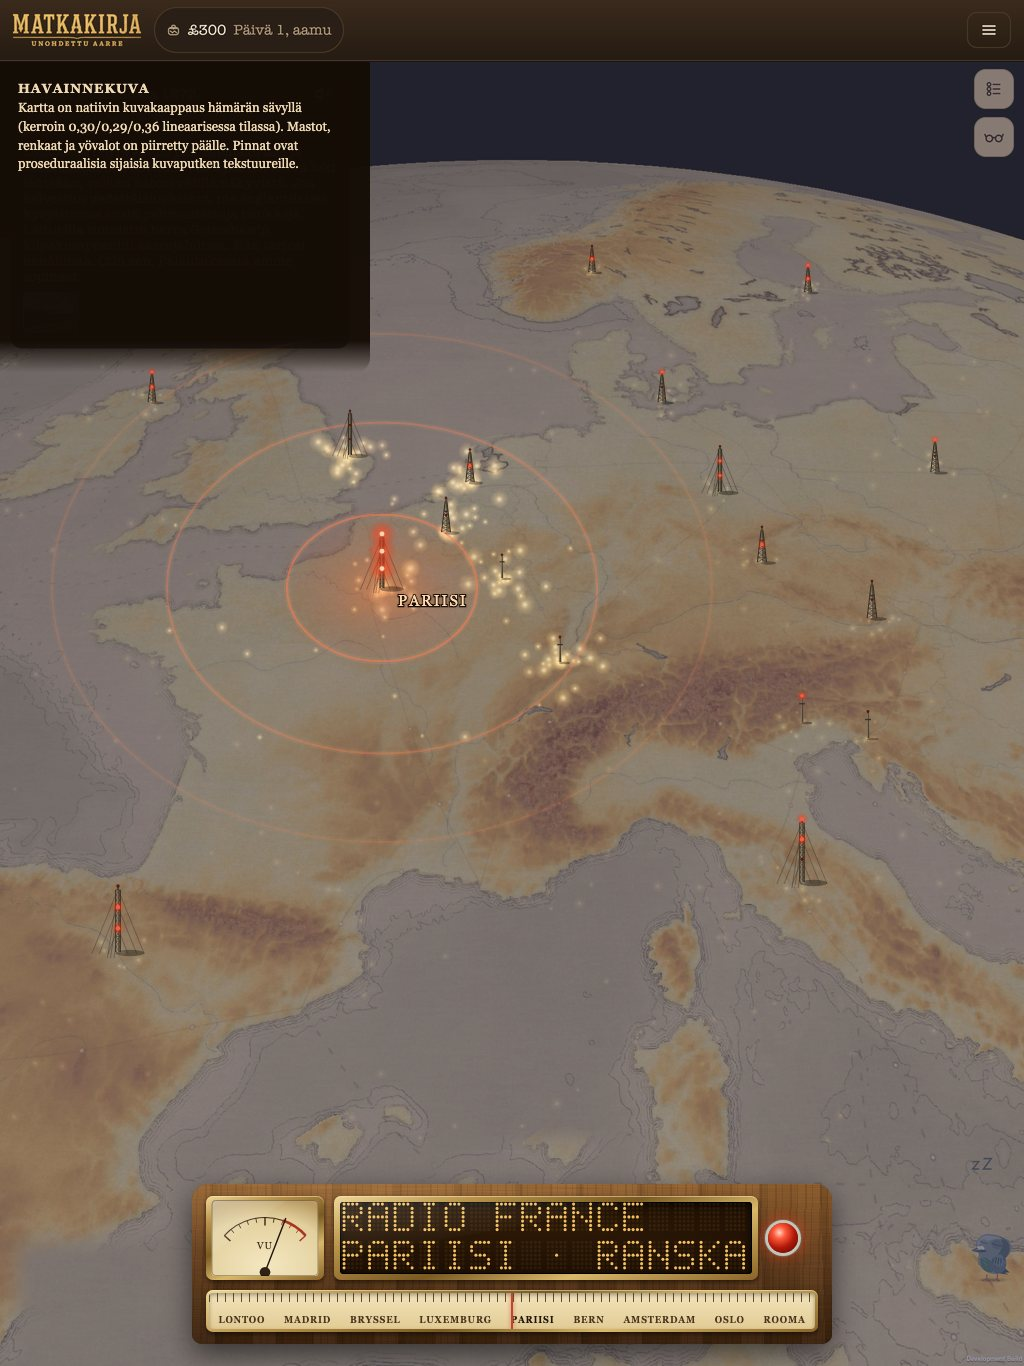
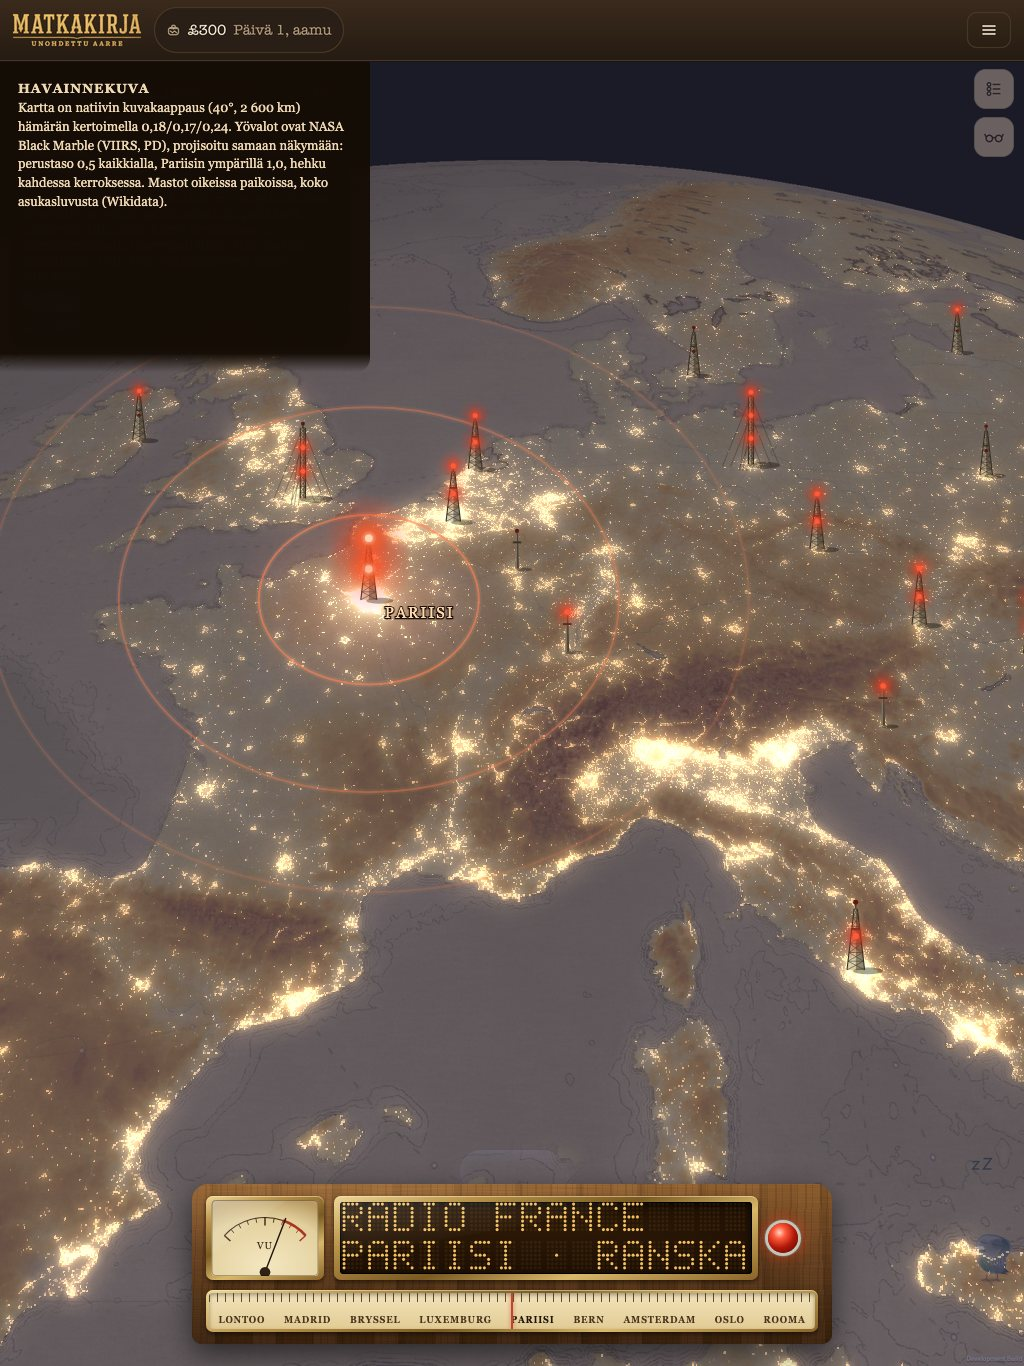
Radiouudistus: omistajan palaute havainnekuvasta (tummempi hämärä 0,18/0,17/0,24, oikea Black Marble perustasolla 0,5, voimakkaampi hehku) ja mastot asukasluvusta

diff --git a/docs/raportit/kaappaukset/radiouudistus-20260924/lahde/mastot.js b/docs/raportit/kaappaukset/radiouudistus-20260924/lahde/mastot.js
@@ -48,7 +48,7 @@ export function masto(x, y, koko, { mittakaava = 1, valot = [], valittu = false,
     const vy = y - h * t, palaa = valot[i] ?? true;
     const r = (valittu ? 2.8 : 2.1) * Math.max(0.7, mittakaava);
     if (palaa) {
-      s += `<circle cx="${x}" cy="${vy}" r="${r * (valittu ? 6 : 3.4)}" fill="url(#hehku${valittu ? 'V' : ''})"/>`;
+      s += `<circle cx="${x}" cy="${vy}" r="${r * (valittu ? 12 : 6.8)}" fill="url(#hehku${valittu ? 'V' : ''})"/>`;
       s += `<circle cx="${x}" cy="${vy}" r="${r}" fill="${valittu ? '#ffd2b0' : '#ff5a3a'}"/>`;
     } else {
       s += `<circle cx="${x}" cy="${vy}" r="${r * 0.8}" fill="#5a1a10"/>`;
@@ -58,8 +58,8 @@ export function masto(x, y, koko, { mittakaava = 1, valot = [], valittu = false,
 }
 
 export const MAARITTEET = `
-  <radialGradient id="hehku"><stop offset="0" stop-color="#ff4a2a" stop-opacity=".85"/><stop offset=".35" stop-color="#ff3a1a" stop-opacity=".35"/><stop offset="1" stop-color="#ff2a0a" stop-opacity="0"/></radialGradient>
-  <radialGradient id="hehkuV"><stop offset="0" stop-color="#ffb08a" stop-opacity="1"/><stop offset=".25" stop-color="#ff4a22" stop-opacity=".6"/><stop offset="1" stop-color="#ff2a0a" stop-opacity="0"/></radialGradient>
-  <radialGradient id="maavalo"><stop offset="0" stop-color="#ff8a4a" stop-opacity=".55"/><stop offset=".45" stop-color="#e0602a" stop-opacity=".22"/><stop offset="1" stop-color="#c04010" stop-opacity="0"/></radialGradient>
+  <radialGradient id="hehku"><stop offset="0" stop-color="#ff5a3a" stop-opacity="1"/><stop offset=".22" stop-color="#ff3a1a" stop-opacity=".55"/><stop offset=".55" stop-color="#ff2a0a" stop-opacity=".16"/><stop offset="1" stop-color="#ff2a0a" stop-opacity="0"/></radialGradient>
+  <radialGradient id="hehkuV"><stop offset="0" stop-color="#ffd0b0" stop-opacity="1"/><stop offset=".18" stop-color="#ff5a2a" stop-opacity=".8"/><stop offset=".5" stop-color="#ff3a12" stop-opacity=".25"/><stop offset="1" stop-color="#ff2a0a" stop-opacity="0"/></radialGradient>
+  <radialGradient id="maavalo"><stop offset="0" stop-color="#ff9a5a" stop-opacity=".7"/><stop offset=".45" stop-color="#e0602a" stop-opacity=".28"/><stop offset="1" stop-color="#c04010" stop-opacity="0"/></radialGradient>
   <radialGradient id="kaupunkivalo"><stop offset="0" stop-color="#ffe1a0" stop-opacity=".95"/><stop offset=".4" stop-color="#ffc060" stop-opacity=".35"/><stop offset="1" stop-color="#ffa030" stop-opacity="0"/></radialGradient>
 `;

diff --git a/docs/raportit/kaappaukset/radiouudistus-20260924/lahde/tee_tausta.py b/docs/raportit/kaappaukset/radiouudistus-20260924/lahde/tee_tausta.py
@@ -1,0 +1,65 @@
+# Hämärä (0,18/0,17/0,24) + Black Marble -yövalot projisoituna kallistettuun näkymään + bloom; mastojen paikat.
+import json, math, collections, sys
+from PIL import Image, ImageFilter, ImageChops
+sys.path.insert(0, 'bm')
+from proj import Kamera, v, dot
+k = Kamera(47, 6, 2600000, 40)
+W, H = 1024, 1366
+paiva = Image.open('kuvat/kall-paiva.png').convert('RGB')
+from PIL import ImageDraw
+def paikka(im, lahde, kohde, koko, sade=16):
+    w, h = koko; pala = im.crop((lahde[0], lahde[1], lahde[0]+w, lahde[1]+h))
+    m = Image.new('L', koko, 0); ImageDraw.Draw(m).rectangle((sade, sade, w-sade, h-sade), fill=255); m = m.filter(ImageFilter.GaussianBlur(sade/2))
+    im.paste(pala, kohde, m)
+paikka(paiva, (200, 1135), (440, 1135), (150, 75))      # Liiku
+paikka(paiva, (640, 1240), (10, 1240), (300, 80))       # maan nimi
+def lut(m, a): return [int(max(0, min(1, ((i/255)**2.2*m+a)**(1/2.2)))*255+.5) for i in range(256)]
+hamara = paiva.point(lut(0.18, 0.006)+lut(0.17, 0.006)+lut(0.24, 0.016))
+hamara.paste(paiva.crop((0, 0, W, 62)), (0, 0))
+bm = Image.open('bm/VIIRS_Black_Marble.png').convert('RGB'); BW, BH = bm.size; bp = bm.load()
+LAT1, LAT0, LON0, LON1 = 78, 20, -35, 50
+VALITTU = (48.86, 2.35); vv = v(*VALITTU)
+def smooth(e0, e1, x):
+    t = max(0, min(1, (x-e0)/(e1-e0))); return t*t*(3-2*t)
+valo = Image.new('RGB', (W, H)); vp = valo.load()
+PERUS = 0.5
+for py in range(62, H):
+    for px in range(W):
+        ll = k.maa(px+0.5, py+0.5)
+        if ll is None: continue
+        lat, lon = ll
+        if not (LAT0 <= lat < LAT1 and LON0 <= lon < LON1): continue
+        r, g, b = bp[int((lon-LON0)/(LON1-LON0)*BW), int((LAT1-lat)/(LAT1-LAT0)*BH)]
+        # Vain valot: lämmin ja kirkas (kuunvalaistu maa on sinertävää, lumi harmaata).
+        w = max(0, min(1, (r-48)/170)) * max(0, min(1, (r-b+10)/40))
+        if w <= 0: continue
+        dkm = math.acos(max(-1, min(1, dot(v(lat, lon), vv))))*6371
+        m = PERUS + (1-PERUS)*smooth(230, 60, dkm)
+        s = w*m*0.85
+        vp[px, py] = (int(255*min(1, s*1.05)), int(255*min(1, s*0.82)), int(255*min(1, s*0.52)))
+# Bloom: ydin + kaksi pehmeää halokerrosta (säde ~2× edellinen kuva)
+halo1 = valo.filter(ImageFilter.GaussianBlur(4)).point(lambda x: min(255, int(x*1.4)))
+halo2 = valo.filter(ImageFilter.GaussianBlur(14)).point(lambda x: min(255, int(x*1.9)))
+tulos = ImageChops.add(ImageChops.add(ImageChops.add(hamara, halo2), halo1), valo)
+# Kortin alue (pelin nimikortti) peitetään selitelaatikolla HTML:ssä.
+tulos.save('kuvat/kall-hamara2.png'); valo.save('kuvat/valot.png')
+# Mastot: radiokaupunki per maa (aloitus/tärkein), koko asukasluvusta.
+K = json.load(open('/Users/Shared/Claude/sisalto-koe/v49/kokoelmat/kaupungit.json'))['alkiot']
+R = json.load(open('/Users/Shared/Claude/sisalto-koe/v49/kokoelmat/radiot.json'))['alkiot']
+per = collections.defaultdict(list)
+for c in K: per[c['maa']].append(c)
+out = []
+for m in sorted({r['iso3'] for r in R}):
+    if m not in per: continue
+    c = max(per[m], key=lambda c: (c.get('aloitus', False), c['tarkeys'], c.get('asukkaat') or 0))
+    if m == 'FRA': c = next(x for x in per[m] if x['id'] == 'pariisi')
+    a = c.get('asukkaat'); alue = c.get('asukkaatAlue')
+    koko = 'pieni' if a is None or alue else 'iso' if a >= 3e6 else 'keski' if a >= 5e5 else 'pieni'
+    if dot(v(c['lat'], c['lon']), k.f) > -0.05: continue  # pallon takana
+    x, y = k.ruutu(c['lat'], c['lon'])
+    if not (-20 < x < W+20 and 330 < y < H-150): continue
+    p = [q*6371000 for q in v(c['lat'], c['lon'])]
+    d = math.sqrt(sum((a1-b1)**2 for a1, b1 in zip(p, k.silma)))
+    out.append({'nimi': c['nimi'], 'x': round(x, 1), 'y': round(y, 1), 'koko': koko, 'mk': round(2600000*1.35/d, 3), 'asukkaat': a})
+json.dump(out, open('kuvat/mastot.json', 'w'), ensure_ascii=False, indent=0)
+print(len(out), [(o['nimi'], o['koko'], o['mk']) for o in out])

diff --git a/docs/raportit/kaappaukset/radiouudistus-20260924/lahde/proj.py b/docs/raportit/kaappaukset/radiouudistus-20260924/lahde/proj.py
@@ -1,0 +1,30 @@
+import math
+R=6371000.0
+def v(lat,lon):
+    la,lo=math.radians(lat),math.radians(lon)
+    return (math.cos(la)*math.cos(lo),math.cos(la)*math.sin(lo),math.sin(la))
+def add(a,b,s=1): return tuple(x+s*y for x,y in zip(a,b))
+def mul(a,s): return tuple(x*s for x in a)
+def dot(a,b): return sum(x*y for x,y in zip(a,b))
+def cross(a,b): return (a[1]*b[2]-a[2]*b[1],a[2]*b[0]-a[0]*b[2],a[0]*b[1]-a[1]*b[0])
+def nrm(a): n=math.sqrt(dot(a,a)); return mul(a,1/n)
+class Kamera:
+    def __init__(s,lat,lon,korkeus,kall,suunt=0,fov=50,W=1024,H=1366):
+        ylos=v(lat,lon); kohde=mul(ylos,R)
+        pohj=nrm(add((0,0,1),ylos,-dot((0,0,1),ylos))); ita=nrm(cross(pohj,ylos))
+        b=math.radians(suunt); eteen=add(mul(pohj,math.cos(b)),mul(ita,math.sin(b)))
+        k=math.radians(kall); suunta=add(mul(ylos,math.cos(k)),mul(eteen,-math.sin(k)))
+        s.silma=add(kohde,mul(suunta,korkeus)); s.f=mul(suunta,-1)
+        s.up=nrm(add(mul(eteen,math.cos(k)),mul(ylos,math.sin(k))))
+        s.right=nrm(cross(s.f,s.up)); s.t=math.tan(math.radians(fov)/2); s.W,s.H=W,H; s.asp=W/H
+    def ruutu(s,lat,lon):
+        p=mul(v(lat,lon),R); d=add(p,s.silma,-1); z=dot(d,s.f)
+        x=dot(d,s.right)/z/(s.t*s.asp); y=dot(d,s.up)/z/s.t
+        return ((x+1)/2*s.W,(1-y)/2*s.H)
+    def maa(s,px,py):
+        x=(2*px/s.W-1)*s.t*s.asp; y=(1-2*py/s.H)*s.t
+        d=nrm(add(add(s.f,mul(s.right,x)),mul(s.up,y)))
+        b=dot(s.silma,d); c=dot(s.silma,s.silma)-R*R; disc=b*b-c
+        if disc<0: return None
+        t=-b-math.sqrt(disc); p=add(s.silma,mul(d,t))
+        return (math.degrees(math.asin(p[2]/R)),math.degrees(math.atan2(p[1],p[0])))

diff --git a/docs/raportit/linssi-radiouudistus-suunnitelma-20260924.md b/docs/raportit/linssi-radiouudistus-suunnitelma-20260924.md
@@ -7,7 +7,10 @@ suunnitelma koskee vain natiivia, web pysyy ennallaan.*
 
 Kuvat ovat kansiossa `kaappaukset/radiouudistus-20260924/` (lähdekoodi `lahde/`). Ne ovat havainnekuvia.
 Kartta on natiivin oma kuvakaappaus isosta iPadista (40° kallistus, 47° N 6° E, 2 600 km), ja sen päälle on
-laskettu hämärä. Mastot, renkaat, yövalot ja paneeli on piirretty päälle. Paneelin puu, messinki ja lasi ovat
+laskettu hämärä. Yövalot ovat oikeaa NASA Black Marble -aineistoa (GIBS VIIRS_Black_Marble), joka on projisoitu
+samaan näkymään pelin kameramallilla (`lahde/proj.py`). Mastot ovat oikeissa paikoissa, ja niiden koko tulee
+asukasluvusta (skeema 1.38). Pääkuva päivitettiin omistajan palautteen mukaan 24.9. klo 20.1x: kartta on
+tummempi, yövalot kattavat kaikki kaupungit ja tiet, ja hehku on voimakkaampi. Paneelin puu, messinki ja lasi ovat
 proseduraalisia sijaisia, kunnes kuvaputki toimittaa tekstuurit (tilaus d5928ae06).
 
 ![Pääkuva: iPad, hämärä kartta, Pariisin masto valittuna](kaappaukset/radiouudistus-20260924/1-paakuva-ipad.jpg)
@@ -63,7 +66,7 @@ Hämärä ei ole yö. Pergamentti tummuu ja viilenee, ja rannat, rajat, nimet ja
 Tileset-varjostimessa tehdään yksi kerto- ja lisäys lineaarisessa tilassa:
 
 ```
-hämärä = pohja × (0,30, 0,29, 0,36) + (0,010, 0,010, 0,022)
+hämärä = pohja × (0,18, 0,17, 0,24) + (0,006, 0,006, 0,016)     (omistaja 24.9. klo 20.0x: tummempi)
 lopputulos = lerp(pohja, hämärä, h),  h = 0 → 1 linssin avauksessa (1,5 s, Pehmeä)
 ```
 
@@ -75,12 +78,17 @@ lähtee pois (löydös 43, alla), joten kaikki maat näkyvät samassa hämäräs
 satelliittiputkella, ja Natiiviseppä lisää sen hämärään emissiivisenä:
 
 ```
-valo = BlackMarble × (0,25 + 0,75 × paikallinen)
+w     = saturate((R − 48/255) / (170/255)) × saturate((R − B + 10/255) / (40/255))   (vain lämmin valo,
+        ei kuunvalaistua maata eikä lunta; Karttaseppä voi leipoa tämän suoraan polttoon)
+valo  = w × 0,85 × (0,5 + 0,5 × paikallinen) × (1,05, 0,82, 0,52)                   (natriumin sävy)
 paikallinen = smoothstep(230 km, 60 km, etäisyys valittuun mastoon) × syttyminen (0 → 1, 1,2 s Pehmeä)
+hehku = valo + blur(valo, 4 pt) × 1,4 + blur(valo, 14 pt) × 1,9                       (bloom, lisätään)
 ```
 
-Pääkuvassa Black Marblen sijaisena ovat piirretyt pisteet. Oikea aineisto on tiheämpi ja seuraa teitä ja
-rannikoita. Sama kerros palvelee myöhemmin yön valot -datalinssiä ja lennon yöosuutta.
+Perustaso on 0,5 kaikkialla maailmassa (omistaja: selvästi näkyvä), ja valitun maston ympärillä valot ovat
+täysiä. Bloom on Natiivisepän filmipinossa (URP Bloom: kynnys emissiiviselle, sironta noin 0,7) tai
+tileset-varjostimen oma kahden säteen hehku, kumpi on iPhonella halvempi. Sama kerros palvelee myöhemmin
+yön valot -datalinssiä ja lennon yöosuutta.
 
 ## 4. Radiomastot
 
@@ -92,9 +100,11 @@ rannikoita. Sama kerros palvelee myöhemmin yön valot -datalinssiä ja lennon y
 | Keski | 0,5–3 milj. | itsekantava ristikkotorni | 2 tasoa (50 %, huippu) | 46 pt | 600 km |
 | Pieni | < 0,5 milj. | putkimasto | huippu | 30 pt | 350 km |
 
-- **Koko tulee kaupungin asukasluvusta.** Kaupungit.json ei vielä sisällä sitä. Ehdotan, että
-  Siirtoseppä lisää kentän `asukkaat` Wikidatasta (P1082, CC0) radiokaupungeille (115). Kentän
-  `tarkeys` jakauma radiokaupungeissa on 81 × 3, 6 × 2, 7 × 1 ja 21 × 0, joten se ei erottele kokoja.
+- **Koko tulee kaupungin asukasluvusta:** kaupungit.json-kenttä `asukkaat` (skeema 1.38, Wikidata P1082,
+  CC0). Jos luku puuttuu (luontokohteet kuten Sahara ja Alpit) tai `asukkaatAlue` on tosi (luku koskee
+  saarta tai valtiota, esim. Angola ja Islanti), masto on Pieni. Koepaketissa v49 jako on 36 Iso, 43 Keski
+  ja 36 Pieni. Huom: P1082 on kaupungin oma raja eikä metropolialue, joten Pariisi (2,1 milj.) ja Rooma
+  (2,7 milj.) ovat Keskiä.
 - **Liioittelu:** 64 pt 2 600 km:n korkeudelta vastaa noin 150 km:n mastoa (oikea on noin 300 m), eli
   liioittelu on noin 500-kertainen. Maston korkeus maailmassa on c × kameran korkeus^0,85, joten koko
   ruudulla kasvaa hieman zoomattaessa lähemmäs mutta ei räjähdä. Mastot seisovat pinnan normaalin
@@ -112,6 +122,9 @@ rannikoita. Sama kerros palvelee myöhemmin yön valot -datalinssiä ja lennon y
 **Muut mastot (lentoestevalot):** kukin vilkkuu omassa vaiheessaan. Jakso on 1,5 s ± 20 % (arvottu
 mastoittain, siemen = aseman tunnus), valo palaa 0,45 s ja nousee ja laskee 0,12 s. Kaikki lasketaan
 varjostimessa, joten prosessori ei tee mitään kehyskohtaista.
+
+**Hehku** (omistaja 24.9. klo 20.0x): lentoestevalon halo on 6,8 × valon säde (valittu 12 ×), eli
+kaksinkertainen ensimmäiseen havainnekuvaan nähden, ja reunan alfa on korkeampi. Maavalon säde on 140 km.
 
 **Valittu masto:** kirkkaus = max(0,25, VU) (aito taso, AVAudioEngine build 8). Kirkkaus nousee 30 ms:ssa
 ja laskee 250 ms:ssa, jotta tahti näkyy mutta ei välky. Kaikki tasot vilkkuvat samassa tahdissa. Maavalo on
